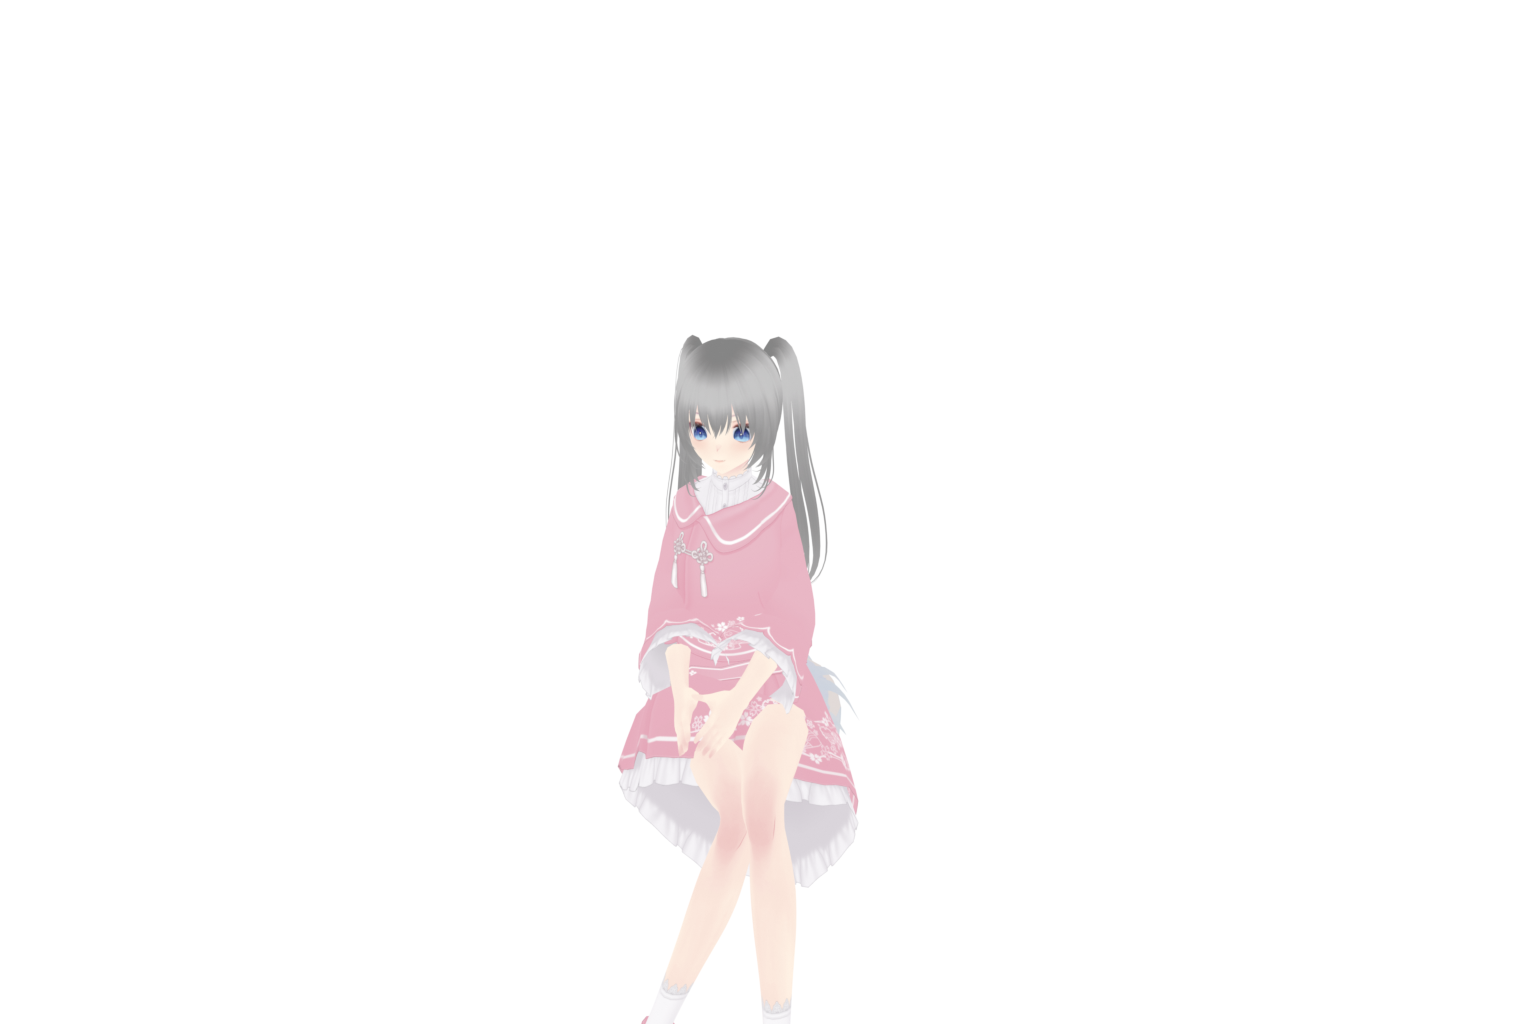
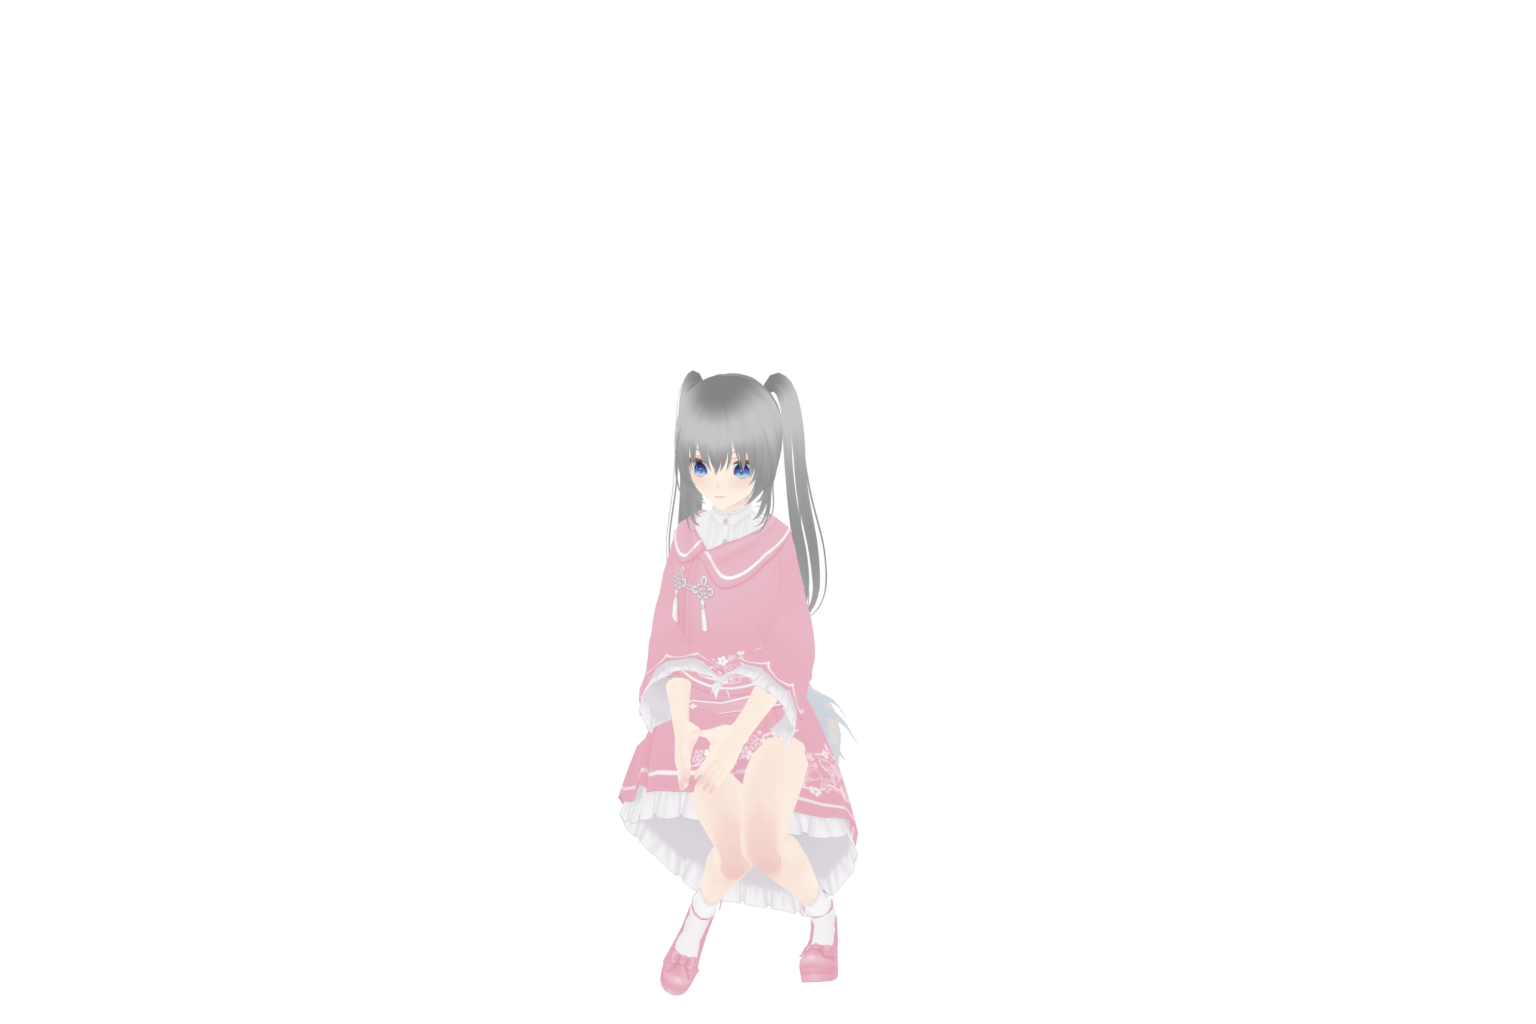
让脚落进画面
脚不是被画幅切掉的，是穿到地板下面去了：坐高 0.50 米配她的腿长和厚底鞋
（鞋底比脚踝低 12 厘米），小腿垂下来鞋底在 −0.16 米。

但"落到 z=0"也不对。3D 的地面和画上去的地板毫无关系——桌子是 2D 灰模里
画的，位置由构图定。按 z=0 落地的结果是胯部落在桌沿上方，大腿全露在
桌面上。唯一有意义的参照是画面坐标，所以改成 place_hip()：把胯部对准
桌沿稍下方。

还有一层透视陷阱：脚比躯干更靠近镜头，而画幅下边界在近处更高，鞋底贴地
仍然差 4 厘米出画。小腿一律带向后的分量把脚收到椅子底下——既是坐着的
自然姿势，也把脚推远了镜头。

frame_extent() 直接报角色在画面上的纵向占位，出没出画是量出来的不是看出来的。
五套姿势现在都落在 0.36…0.99 之间。

Changed region(s): [[0.4062, 0.3125, 0.5625, 1.0]]

diff --git a/Blender/snozzy_lib.py b/Blender/snozzy_lib.py
@@ -330,3 +330,81 @@ def scene_camera(scene, yaw_deg=13, height=1.42, dist=2.55, look_z=0.86, lens=32
     direction = target - cam.location
     cam.rotation_euler = direction.to_track_quat('-Z', 'Y').to_euler()
     return cam
+
+
+def place_hip(scene, arm, y_fraction, bone="J_Bip_C_Hips", tries=4):
+    """把胯部挪到画面纵向的某个位置上。
+
+    **不要用"落到地面"来定位**：3D 的地面 z=0 和画上去的地板毫无关系——
+    桌子是 2D 灰模里画的，位置由构图定，不由世界坐标定。按 z=0 落地的结果是
+    胯部落在桌沿上方，大腿全露在桌面上。
+    唯一有意义的参照是画面坐标：胯部对准桌沿稍下方，人就"坐进"桌子后面了。
+    """
+    from bpy_extras.object_utils import world_to_camera_view
+    cam = scene.camera
+    for _ in range(tries):
+        pb = arm.pose.bones[bone]
+        world = arm.matrix_world @ pb.head
+        p = world_to_camera_view(scene, cam, world)
+        err = (1 - y_fraction) - p.y          # 视图 y 向上为正
+        if abs(err) < 0.002:
+            break
+        arm.location.z += err * _view_height_at(scene, cam, world)
+        bpy.context.view_layer.update()
+    return p.y
+
+
+def frame_extent(scene, meshes):
+    """角色在画面上的纵向占位，0（顶）…1（底）。用来检查有没有出画。"""
+    from bpy_extras.object_utils import world_to_camera_view
+    dg = bpy.context.evaluated_depsgraph_get()
+    lo, hi = 1.0, 0.0
+    for o in meshes:
+        ev = o.evaluated_get(dg)
+        me = ev.to_mesh()
+        for v in me.vertices:
+            y = 1 - world_to_camera_view(scene, scene.camera, ev.matrix_world @ v.co).y
+            lo = min(lo, y); hi = max(hi, y)
+        ev.to_mesh_clear()
+    return lo, hi
+
+
+def lift_into_frame(scene, arm, meshes, margin=0.015, tries=4):
+    """把角色抬到最低点落进画面里。
+
+    「鞋底贴地」不等于「脚在画面里」：脚比躯干更靠近镜头，而画幅的下边界
+    在近处更高。差多少是透视决定的，跟姿势有关，试坐高试不出来——
+    直接把最低点投到相机视图里，看差多少就抬多少，迭代两三次收敛。
+
+    抬起来的那点距离在画面上看不出：桌下本来就是暗的，也没有地面参照。
+    """
+    from bpy_extras.object_utils import world_to_camera_view
+    cam = scene.camera
+    for _ in range(tries):
+        dg = bpy.context.evaluated_depsgraph_get()
+        worst = None
+        for o in meshes:
+            ev = o.evaluated_get(dg)
+            me = ev.to_mesh()
+            for v in me.vertices:
+                p = world_to_camera_view(scene, cam, ev.matrix_world @ v.co)
+                if worst is None or p.y < worst[0]:
+                    worst = (p.y, ev.matrix_world @ v.co)
+            ev.to_mesh_clear()
+        if worst is None or worst[0] >= margin:
+            return worst[0] if worst else None
+        # 视图坐标 y 是 0…1，换算成世界高度：拿当前最低点的深度做线性近似
+        deficit = margin - worst[0]
+        arm.location.z += deficit * _view_height_at(scene, cam, worst[1])
+        bpy.context.view_layer.update()
+    return worst[0] if worst else None
+
+
+def _view_height_at(scene, cam, point):
+    """相机视图里 1.0 个单位对应该点深度上的多少世界高度。"""
+    import math
+    depth = (point - cam.matrix_world.translation).length
+    sensor = cam.data.sensor_width
+    vfov = 2 * math.atan(sensor * scene.render.resolution_y
+                         / scene.render.resolution_x / 2 / cam.data.lens)
+    return 2 * depth * math.tan(vfov / 2)

diff --git a/Blender/pose.py b/Blender/pose.py
@@ -63,10 +63,13 @@ def aim(arm, name, direction, prefer=None):
 
 # 坐着的人腿不会一直保持一个姿势。这几套之间随机换，就是"活人"和"雕像"的区别。
 # 方向都是「大腿 / 小腿 / 脚」三段的世界朝向，sx 是左右镜像。
+# 小腿一律带一点**向后**的分量，脚收到椅子下面。
+# 这既是坐着的自然姿势，也解决一个取景问题：脚比躯干更靠近镜头，
+# 而画幅下边界在近处更高——脚往后收，离镜头远了，才落得进画面。
 LEG_STYLES = {
-    "together": (( 0.14, -1.00, -0.10), ( 0.06, -0.08, -1.00), ( 0.05, -0.90, -0.20)),
-    "apart":    (( 0.30, -0.96, -0.10), ( 0.20, -0.06, -1.00), ( 0.14, -0.88, -0.24)),
-    "tucked":   (( 0.14, -1.00, -0.10), ( 0.10,  0.42, -0.90), ( 0.08, -0.30, -0.95)),
+    "together": (( 0.14, -1.00, -0.10), ( 0.06,  0.78, -0.63), ( 0.05, -0.62, -0.60)),
+    "apart":    (( 0.30, -0.96, -0.10), ( 0.22,  0.80, -0.56), ( 0.16, -0.58, -0.64)),
+    "tucked":   (( 0.14, -1.00, -0.10), ( 0.10,  0.90, -0.42), ( 0.08, -0.20, -0.96)),
 }
 
 
@@ -79,11 +82,11 @@ def cross_legs(arm, over="L"):
     under = "R" if over == "L" else "L"
     sx = 1 if over == "L" else -1
     aim(arm, f"J_Bip_{over}_UpperLeg", (-sx * 0.40, -0.90, -0.16))
-    aim(arm, f"J_Bip_{over}_LowerLeg", ( sx * 0.34, -0.06, -0.94))
+    aim(arm, f"J_Bip_{over}_LowerLeg", ( sx * 0.34,  0.70, -0.62))
     aim(arm, f"J_Bip_{over}_Foot",     ( sx * 0.20, -0.62, -0.76))
     ux = 1 if under == "L" else -1
     aim(arm, f"J_Bip_{under}_UpperLeg", (ux * 0.18, -1.00, -0.08))
-    aim(arm, f"J_Bip_{under}_LowerLeg", (ux * 0.08, -0.10, -1.00))
+    aim(arm, f"J_Bip_{under}_LowerLeg", (ux * 0.08,  0.76, -0.64))
     aim(arm, f"J_Bip_{under}_Foot",     (ux * 0.06, -0.90, -0.20))
 
 
@@ -157,12 +160,38 @@ def drape_skirt(arm, spread=1.0):
     print(f"POSE 裙摆 {len(bones)} 根")
 
 
+def ground(arm, floor=0.0):
+    """把整个人抬到鞋底刚好贴地。
+
+    坐高是拍脑袋给的，而她的腿长和那双厚底鞋是模型定死的——两者对不上时
+    小腿垂下来就会穿到地板下面（实测鞋底在 −0.16 米）。与其反复试坐高，
+    不如摆完姿势之后量一次最低点再整体平移，换姿势、换鞋都不用重调。
+    """
+    dg = bpy.context.evaluated_depsgraph_get()
+    low = None
+    for o in bpy.context.scene.objects:
+        if o.type != 'MESH' or not o.material_slots:
+            continue
+        ev = o.evaluated_get(dg)
+        me = ev.to_mesh()
+        for v in me.vertices:
+            z = (ev.matrix_world @ v.co).z
+            if low is None or z < low:
+                low = z
+        ev.to_mesh_clear()
+    if low is not None:
+        arm.location.z += floor - low
+        bpy.context.view_layer.update()
+    return low
+
+
 def seated(arm, lean=0.07, head_down=0.12, hands="desk", sit=False, seat_h=0.50,
            legs="together"):
     """伏案坐姿。`sit=True` 时连同下半身一起摆（3D 场景需要）。"""
     if sit:
         sit_down(arm, seat_h, legs)
         drape_skirt(arm)     # 必须在腿摆完之后铺，否则布还停在旧腿形上
+        ground(arm)          # 再把整个人落到地面上
     bpy.context.view_layer.objects.active = arm
     bpy.ops.object.mode_set(mode='POSE')
 

diff --git a/Blender/render_poses.py b/Blender/render_poses.py
@@ -11,8 +11,11 @@ for style in ("together", "apart", "crossL", "crossR", "tucked"):
     scene.render.resolution_x, scene.render.resolution_y = 1536, 1024
     S.toon_materials(); S.room_lights()
     arm = next(o for o in bpy.data.objects if o.type == 'ARMATURE')
-    P.seated(arm, sit=True, legs=style)
     S.scene_camera(scene)
+    P.seated(arm, sit=True, legs=style)
+    S.place_hip(scene, arm, 0.704)   # 胯部落在桌沿（0.673）稍下方
+    lo, hi = S.frame_extent(scene, meshes)
+    print(f'FRAME 纵向占位 {lo:.3f}…{hi:.3f}' + ('  ← 出画' if hi > 0.995 else ''))
     scene.render.filepath = os.path.join(OUT, f"snozzy_{style}.png")
     bpy.ops.render.render(write_still=True)
     print("POSE", style)

diff --git a/Blender/render_seated.py b/Blender/render_seated.py
@@ -14,8 +14,11 @@ scene = S.setup_scene(res=1536)
 scene.render.resolution_x, scene.render.resolution_y = 1536, 1024
 S.toon_materials(); S.room_lights()
 arm = next(o for o in bpy.data.objects if o.type == 'ARMATURE')
-P.seated(arm, sit=True)
 S.scene_camera(scene)
+P.seated(arm, sit=True)
+S.place_hip(scene, arm, 0.704)
+lo, hi = S.frame_extent(scene, meshes)
+print(f'FRAME 纵向占位 {lo:.3f}…{hi:.3f}')
 scene.render.filepath = OUT
 bpy.ops.render.render(write_still=True)
 print("SEATED", OUT)
